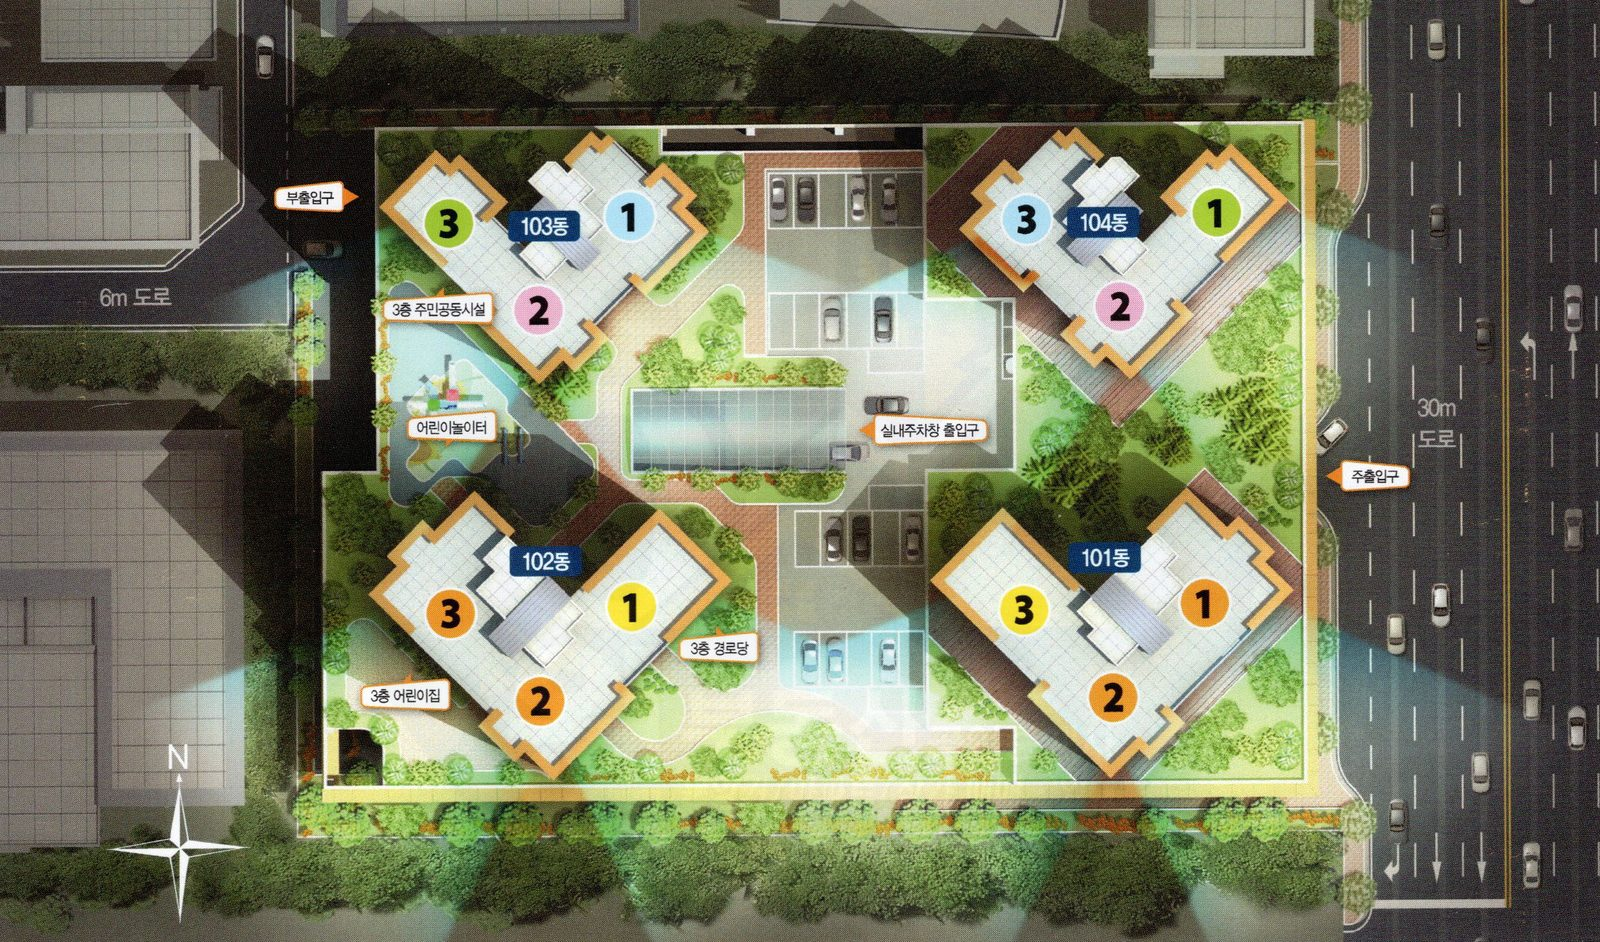
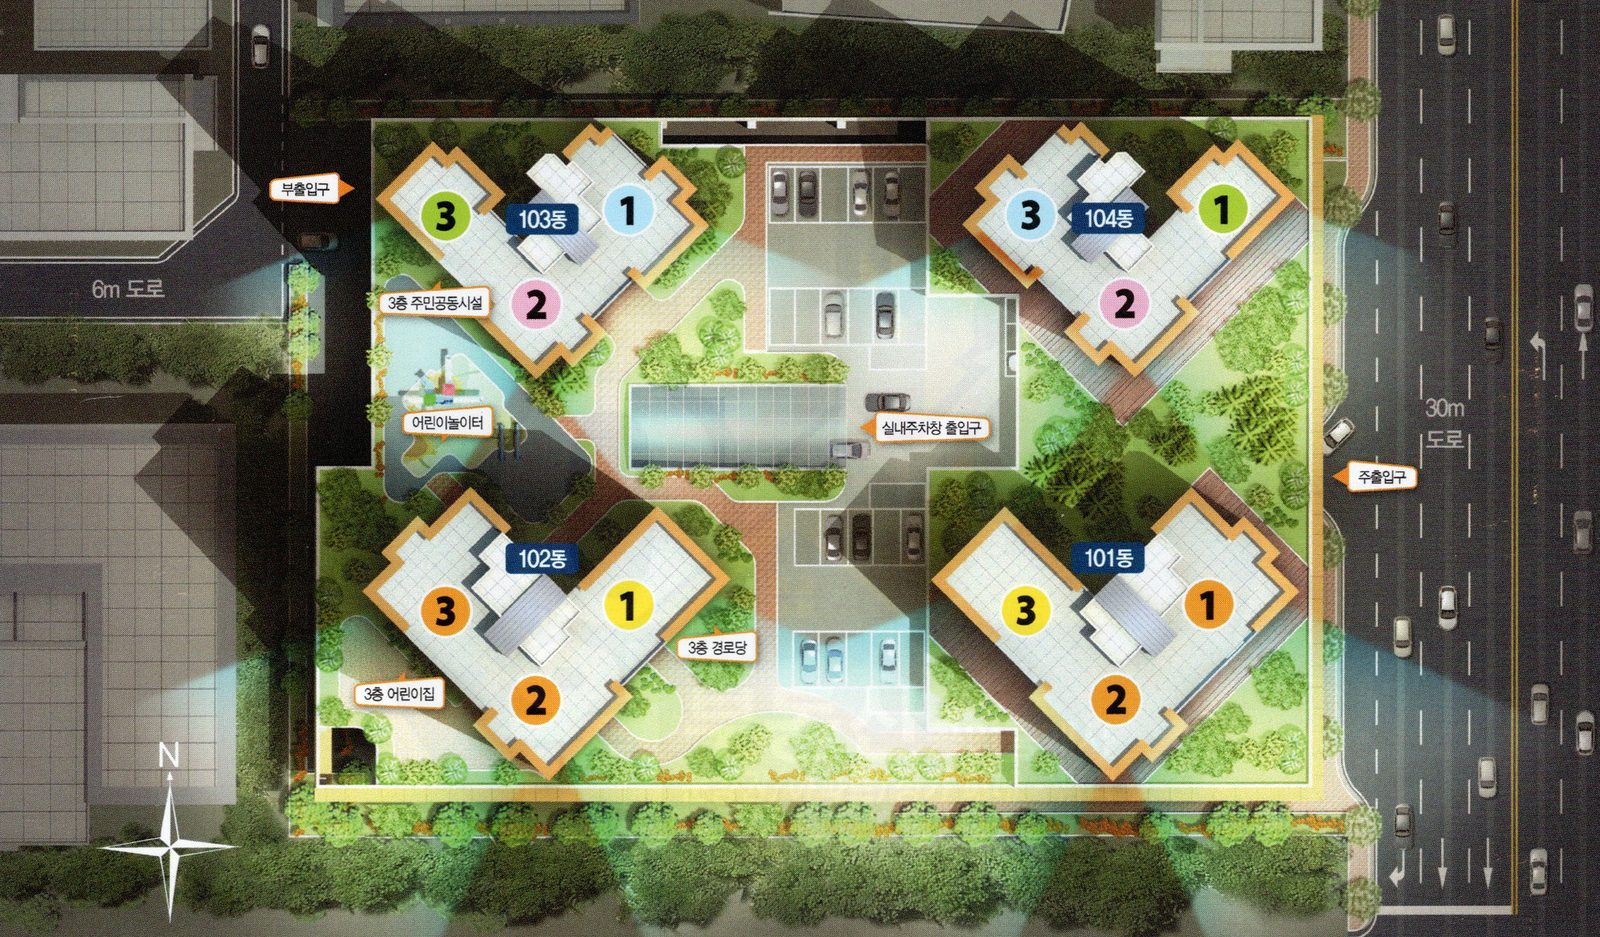
단지 개요 · 단지배치 그림을 (1차)단지배치도로 교체 (대표 요청)
- siteplan.jpg 와 동을 누르면 뜨는 확대 그림(units/101~104)을 새 그림으로
- 동 · 라인 위치는 예전 배치도와 같아 누르는 칸 숫자 그대로, 확대 그림 비율 4개만 바뀜
- make_dongs.py 에 site.json 줄 모양이 바뀌는 점 주의 문구
- npm test 120개 통과 · 크롬 확인

diff --git a/tools/make_dongs.py b/tools/make_dongs.py
@@ -1,9 +1,10 @@
 # 단지배치도에서 동 누르는 칸 + 동을 누르면 뜨는 '유니트 배치' 확대 그림을 만든다 (대라수1차, 2026-11-13)
-# - 원본: 소스/DAELASOO/소스/(1차)배치도.jpg → public/daelasoo/assets/dls/units/{동}.jpg (사무소 로고 새김)
+# - 원본: 소스/DAELASOO/소스/(1차)단지배치도.png (2026-11-14 교체) → public/daelasoo/assets/dls/units/{동}.jpg (사무소 로고 새김)
 # - site.json siteplan.dongs[동] = 배치도 위 누르는 칸 [왼쪽%, 위%, 폭%, 높이%]
 #   siteplan.units[동] = { ar, spots: [{ line, box(확대 그림 기준 %), plan, ar }] } — 라인을 누르면 그 타입 평면
 # - 위치는 배치도의 동 이름표 · 라인 번호 동그라미를 보고 잡음 (배치도 전체 기준 %). 배치도가 바뀌면 아래 숫자만 고침
 # 실행: 프로젝트 폴더에서  py tools/make_dongs.py
+# ⚠ site.json 을 통째로 다시 써서(indent 2) 다른 칸의 줄 모양까지 바뀜 — 실행 뒤 git diff 로 siteplan 값만 바뀌었는지 보고, 나머지는 되돌릴 것 (2026-11-14)
 import json, sys
 from pathlib import Path
 from PIL import Image
@@ -13,7 +14,7 @@ from watermark import SRC, OUT, LOGO, stamp, QUALITY
 
 ROOT = Path(__file__).resolve().parent.parent
 SITE = ROOT / 'public' / 'daelasoo' / 'data' / 'site.json'
-PLAN = SRC / '(1차)배치도.jpg'
+PLAN = SRC / '(1차)단지배치도.png'   # 2026-11-14 새 그림 (동 · 라인 위치는 예전 (1차)배치도.jpg 와 같아 아래 숫자 그대로)
 
 # 동: (누르는 칸 [왼쪽, 위, 폭, 높이] %, {라인: 동그라미 가운데 (x, y) %})
 DONGS = {

diff --git a/tools/watermark.py b/tools/watermark.py
@@ -17,7 +17,7 @@ FILES = [
     ('대라수1차.jpg', 'hero.jpg', True),                 # 첫 화면 카드 · 단지 소개 메인
     ('투시가로.png', 'hero_wide.jpg', True, 'X'),         # 단지 화면 맨 위 큰 사진 (가로 투시도, 2026-11-14 대표 요청 · 시안 r7-hero)
     ('투시가로.png', 'og.jpg', True, (116, 0, 880, 401), 'O'),  # 링크 미리보기(카톡 · 검색) 그림 1200x630 — 가운데 건물 부분만 (시안 r8-og)
-    ('(1차)배치도.jpg', 'siteplan.jpg', True),            # 단지배치도
+    ('(1차)단지배치도.png', 'siteplan.jpg', True),        # 단지배치도 · 단지 개요 그림 (2026-11-14 대표 요청으로 새 그림, 동 위치는 예전 (1차)배치도.jpg 와 같음)
     ('(1차)동호배치도.jpg', 'dongho.jpg', True),          # 동 · 호 배치도
     ('층개요.jpg', 'floors.jpg', True),                   # 층 개요
     ('쌍암공원벚꽃.jpg', 'park.jpg', True),               # 사업지 옆 사진 · 59㎡ 칸 배경
